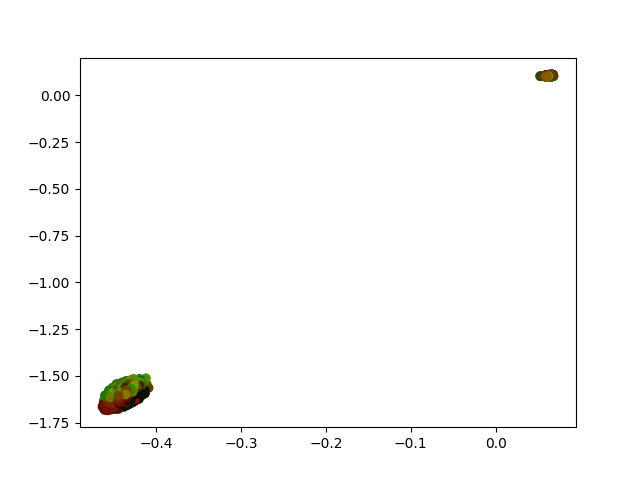
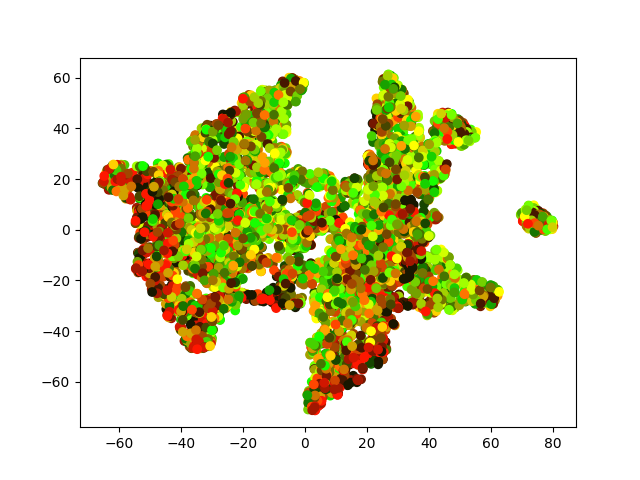
implemented training agent with latent representation

diff --git a/scripts/iida/model.py b/scripts/iida/model.py
@@ -1,5 +1,6 @@
 import numpy as np
 import matplotlib.pyplot as plt
+import matplotlib.cm as cm
 from sklearn.manifold import TSNE
 
 import torch
@@ -15,9 +16,10 @@ class TrajDataset(Dataset):
     def __init__(self, 
                  traj_dict, 
                  context_size=128, # 
-                 ds_size=100000 #
+                 ds_size=100_000 #
                  ):
         self.traj_dict = traj_dict
+        
         self.context_size = context_size
         self.ds_size = ds_size
 
@@ -30,13 +32,14 @@ class TrajDataset(Dataset):
         # pick context_size number of tuples from the context
         idxs = np.random.choice(len(self.traj_dict[context]), self.context_size+1, replace=False)
         
-        return {"s": torch.tensor(self.traj_dict[context][idxs[-1]][0]).type(torch.float32),
-                "a": torch.tensor(self.traj_dict[context][idxs[-1]][1]).type(torch.float32),
-                "sp": torch.tensor(self.traj_dict[context][idxs[-1]][2]).type(torch.float32),
-                "s_context": torch.tensor([self.traj_dict[context][i][0] for i in idxs[:-1]]).type(torch.float32),
-                "a_context": torch.tensor([self.traj_dict[context][i][1] for i in idxs[:-1]]).type(torch.float32),
-                "sp_context": torch.tensor([self.traj_dict[context][i][2] for i in idxs[:-1]]).type(torch.float32),
+        return {"s": torch.tensor(np.array(self.traj_dict[context][idxs[-1]][0])).type(torch.float32),
+                "a": torch.tensor(np.array(self.traj_dict[context][idxs[-1]][1])).type(torch.float32),
+                "sp": torch.tensor(np.array(self.traj_dict[context][idxs[-1]][2])).type(torch.float32),
+                "s_context": torch.tensor(np.array([self.traj_dict[context][i][0] for i in idxs[:-1]])).type(torch.float32),
+                "a_context": torch.tensor(np.array([self.traj_dict[context][i][1] for i in idxs[:-1]])).type(torch.float32),
+                "sp_context": torch.tensor(np.array([self.traj_dict[context][i][2] for i in idxs[:-1]])).type(torch.float32),
                 #TODO : optimize dataloading
+                # TODO : array before saving the trajs would be faster
                 "context": context
                 }
 ## Define the predictor model
@@ -142,16 +145,20 @@ class Predictor(pl.LightningModule):
         return self(tuples)
     
     def on_validation_epoch_end(self):
+        # plot the latent space
+        #
         # contexts are strings in the form '[0.55 0.15]'.
         # we need to convert them to floats
         contexts = [np.fromstring(c[1:-1], sep=' ') for c in self.contexts]
+        #print("contexts", contexts)
         #contexts = [c.astype(float) for c in self.contexts]
-        latents = TSNE(n_components=2).fit_transform(self.latents)
-        plt.scatter([a[0] for a in latents],
-                    [a[1] for a in latents],
-                    c=[
-                        [c_[0]*2,
-                        c_[1]*2, 
-                        0] 
-                       for c_ in contexts])
-        plt.savefig("latent_space.png")
+        latents = TSNE(n_components=2).fit_transform(np.array(self.latents))
+        # plot 2 graphs, one for each dimension of the context
+        for i in range(len(contexts[0])):
+            plt.figure()
+            plt.scatter(latents[:, 0], latents[:, 1], c=[c[i] for c in contexts])
+            plt.colorbar()
+            plt.savefig(f"latent_space_dim_{i}.png")
+
+        
+

diff --git a/scripts/orig_impl/striker_baselines.py b/scripts/orig_impl/striker_baselines.py
@@ -26,21 +26,21 @@ if __name__ == "__main__":
     for the Striker task.
     """
     parser = argparse.ArgumentParser()
-    parser.add_argument('--oracle', action='store_true')
+    parser.add_argument('--context', type=str, default='explicit')
     parser.add_argument('--render', action='store_true')
     parser.add_argument('--nb_steps', type=int, default=2_000_000)
     parser.add_argument('--nb_runs_per_eval', type=int, default=100)
     args = parser.parse_args()
-    oracle = args.oracle
+    context = args.context
     render = args.render
     nb_total_timesteps = args.nb_steps
     nb_runs_per_eval = args.nb_runs_per_eval
     eval_every = nb_total_timesteps // 10
 
-    print("Oracle: ", oracle)
+    print("Context: ", context)
 
 
-
+    """
     run = wandb.init(
         project="meta_rl_epi_orig",
         monitor_gym=True, # auto-upload the videos of agents playing the game
@@ -52,12 +52,12 @@ if __name__ == "__main__":
             "total_timesteps": nb_total_timesteps,
         }
         )
-
+    """
         
 
     # generate the training environment
 
-    if oracle:
+    if context == 'explicit':
         train_env = vec_env.DummyVecEnv([
         lambda: monitor.Monitor(
         RecordEpisodeStatistics(gym.make("StrikerOracle-v0")),
@@ -65,10 +65,18 @@ if __name__ == "__main__":
         for _ in range(NUM_OF_ENVS)])
     
     
-    else:
+    elif context == 'none':
         train_env = vec_env.DummyVecEnv([
         lambda: monitor.Monitor(
         RecordEpisodeStatistics(gym.make("StrikerAvg-v0")
+            ),
+        )
+        for _ in range(NUM_OF_ENVS)])
+    
+    elif context == 'latent':
+        train_env = vec_env.DummyVecEnv([
+        lambda: monitor.Monitor(
+        RecordEpisodeStatistics(gym.make("StrikerPredictor-v0")
             ),
         )
         for _ in range(NUM_OF_ENVS)])
@@ -85,17 +93,19 @@ if __name__ == "__main__":
     for learning_step in range(0, nb_total_timesteps, eval_every):
         print(f"learning step: {learning_step}")
         model.learn(total_timesteps=eval_every,
-                    callback=WandbCallback(),
+                    #callback=WandbCallback(),
                     )
 
         # evaluate the policy on unseen scale values
 
         global_mean_eval = []
         for s, scale in enumerate(scale_list):
-            if oracle:
+            if context == 'explicit':
                 eval_env = gym.make('StrikerOracle-v0', eval_scale=scale, eval_mode=True)
-            else:
+            elif context == 'none':
                 eval_env = gym.make('StrikerAvg-v0', eval_scale=scale, eval_mode=True)
+            elif context == 'latent':
+                eval_env = gym.make('StrikerPredictor-v0', eval_scale=scale, eval_mode=True)
             mean_reward, std_reward = evaluate_policy(model, eval_env, n_eval_episodes=nb_runs_per_eval)
             wandb.log({f"mean_reward_{s}": mean_reward})
             wandb.log({f"std_reward_{s}": std_reward})
@@ -107,7 +117,7 @@ if __name__ == "__main__":
         
     # close wandb
 
-    run.finish()
+    #run.finish()
 
     # render the policy
 

diff --git a/meta_rl/envs/striker_predictor.py b/meta_rl/envs/striker_predictor.py
@@ -1,0 +1,34 @@
+import numpy as np
+
+import stable_baselines3
+
+from ...scripts.iida.model import Predictor
+from .striker_avg import StrikerAvgEnv
+from ...scripts.iida.predictor_inference import get_latent_representation
+
+class StrikerPredictorEnv(StrikerAvgEnv):
+    def __init__(self,eval_mode = False, eval_scale=None):
+        self.eval_mode = eval_mode
+        self.eval_scale = eval_scale
+        super(StrikerPredictorEnv, self).__init__()
+        # Load the generator model
+        self.generator_model = stable_baselines3.PPO.load("scripts/iida/ppo_generator.zip")
+        # Load the model
+        self.predictor_model = Predictor.load_from_checkpoint("scripts/iida/predictor.ckpt")
+
+
+
+    def reset_model(self):
+        self.change_env()
+        self.latent = get_latent_representation(self.scale, self.predictor_model, self.generator_model)
+        return self.raw_reset_model()
+    
+    def _get_obs(self):
+        return np.concatenate([
+            self.sim.data.qpos.flat[:7],
+            self.sim.data.qvel.flat[:7],
+            self.get_body_com("tips_arm"),
+            self.get_body_com("object"),
+            self.get_body_com("goal"),
+            self.scale,
+        ])

diff --git a/scripts/iida/train_predictor.py b/scripts/iida/train_predictor.py
@@ -19,17 +19,18 @@ with open('scripts/iida/traj_dict_test.pkl', 'rb') as f:
     traj_dict_test = pickle.load(f)
 
 # Create the datasets
-train_dataset = TrajDataset(traj_dict_train)
-train_dataloader = DataLoader(train_dataset, batch_size=64, shuffle=True)
+train_dataset = TrajDataset(traj_dict_train, ds_size=100_000)
+train_dataloader = DataLoader(train_dataset, batch_size=64, shuffle=True, num_workers=4)
 
-test_dataset = TrajDataset(traj_dict_test)
-test_dataloader = DataLoader(test_dataset, batch_size=64, shuffle=False)
+test_dataset = TrajDataset(traj_dict_test, ds_size=2_000)
+test_dataloader = DataLoader(test_dataset, batch_size=64, shuffle=False, num_workers=4)
 
 # Create the model
 model = Predictor(d_obs=23, d_act=7, d_latent=8, hidden_sizes=[64, 64])
 
 # Create the trainer
-wandb_logger = WandbLogger(project="meta_rl_predictor",)
+wandb_logger = WandbLogger(project="meta_rl_predictor",
+                           save_dir = 'results',)
                            
 
 trainer = pl.Trainer(
@@ -44,3 +45,5 @@ trainer.fit(model,
             train_dataloader, 
             test_dataloader,)
 
+# Save the model
+torch.save(model.state_dict(), "scripts/iida/predictor.ckpt")

diff --git a/scripts/iida/predictor_inference.py b/scripts/iida/predictor_inference.py
@@ -1,0 +1,34 @@
+"""
+Uses trained predictor model to give latent reprentation of an environment.
+"""
+import gym
+import pytorch_lightning as pl
+import stable_baselines3
+from model import Predictor
+
+
+
+
+def get_latent_representation(scale, predictor_model, generator_model):
+    """
+    Returns latent representation of an environment.
+    """
+    # Get the context
+    env = gym.make('StrikerAvg-v0', eval_mode=True, eval_scale=scale)
+    # TODO : maybe call this function within the env using self ?
+    obs = env.reset()
+    s_, a_ = [], []
+    for i in range(200):
+        action, _states = generator_model.predict(obs)
+        obs, reward, done, info = env.step(action)
+        s_.append(obs)
+        a_.append(action)
+    traj_dict = {
+        "s": s_[:-1],
+        "a": a_,
+        "sp": s_[1:],
+    }
+    # Get the latent representation
+    latent = predictor_model.encoder(traj_dict)
+
+    return latent

diff --git a/scripts/iida/generate_trajs.py b/scripts/iida/generate_trajs.py
@@ -33,6 +33,9 @@ if __name__ == "__main__":
     # learn policy over train env (multiple param settings)
     model.learn(total_timesteps=nb_train_steps, progress_bar=True)
 
+    # save model
+    model.save("scripts/iida/ppo_generator")
+
     # produce trajectories for each of the 36 training scales
     # in orig. impl, 8_000_000 steps in total
     

diff --git a/meta_rl/__init__.py b/meta_rl/__init__.py
@@ -27,6 +27,13 @@ register(
 )
 
 register(
+    id='StrikerPredictor-v0',
+    entry_point='meta_rl.envs:StrikerPredictorEnv',
+    max_episode_steps=200,
+    reward_threshold=0,
+)
+
+register(
     id='StrikerLSTM-v0',
     entry_point='meta_rl.envs:StrikerAvgEnv',
     max_episode_steps=200,
